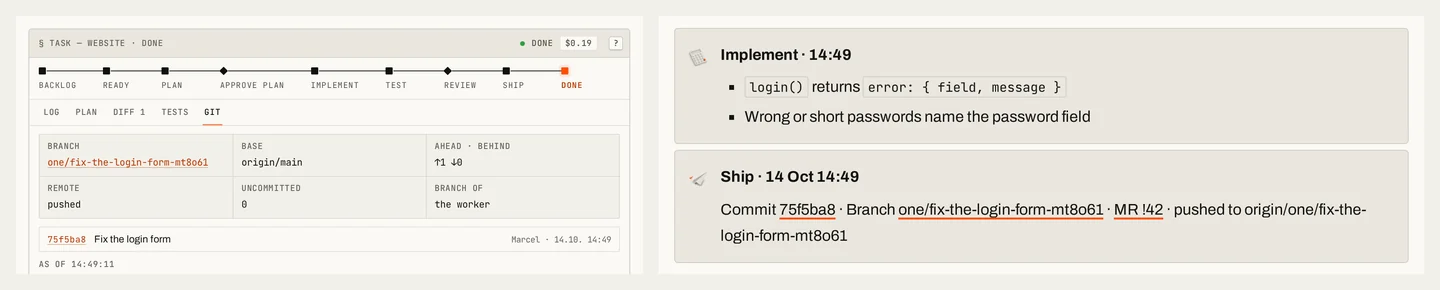
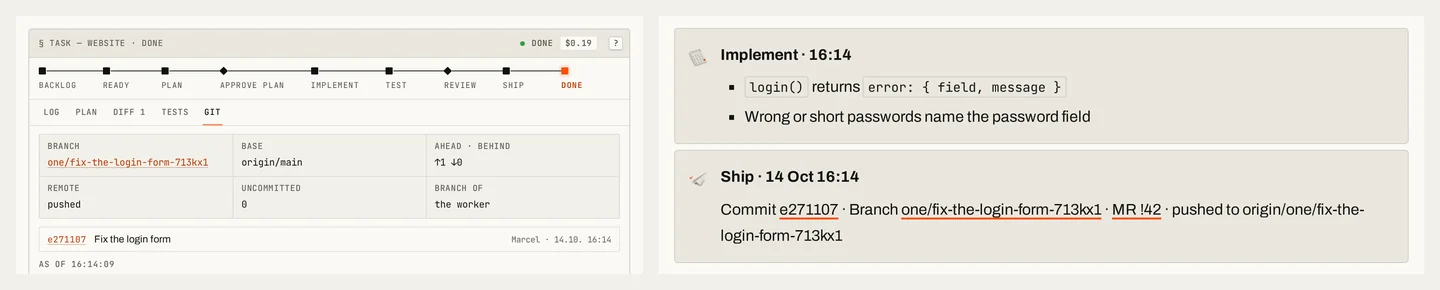
Ship log (app, worker 1.10.0): finish the app part — the line reads as a sentence, a record never falls back to the English summary
Finishes the app half of the ship log on top of the WIP commit d9a8009 (everything it lists: ship.ts, the ship
note in finishStage / gitTask inside keepTrust, PR / Commit via prFieldNext, the Git tab's links, "Always stop
here" gates, "Use for new tasks", the pipeline editor's worker warning, help, What's new, docs, specs) and the
train12 merge c684a3c. Reviewed against the spec; typechecked and tested as a whole.

Changed now:
- ship.ts shipInline: the line starts with a capital ("At a1b2c3d · Branch …", "Nothing new to commit · …",
  "Nichts Neues zu committen · …") — never inside a linked value; notes and the Git keys' toasts read as sentences.
- tasks.ts finishStage: with a ship record a git stage never writes the worker's English summary as a note; a record
  that says nothing (nothing new to commit, nothing pushed) writes no note — the log has the coded line. An older
  worker (no record) keeps its summary note as before.
- GitBox: "Open PR" pushed but the request failed — the error toast says what was shipped in the person's language,
  then gh's / glab's own words.
- Specs follow; coding-ship-fake gains "a record that says nothing: no note"; docs/CODING.md and CLAUDE.md say it.
- The What's new picture ship-log.webp taken again after the merge (scripts/changelog-shots.mjs ship-log).

Claude-Session: https://claude.ai/code/session_011PTSVwNXF7v9uoqKd4CVvx

diff --git a/tests/e2e/coding-ship-fake.spec.ts b/tests/e2e/coding-ship-fake.spec.ts
@@ -172,6 +172,24 @@ test('a failed push in German: the note "Ausliefern · <date>" records the commi
   expect((await notes(page, id)).some((n) => n.text.includes('Fixed the login form.'))).toBe(true)
 })
 
+test('a record that says nothing (nothing new to commit, nothing pushed): no note — never the worker\'s English summary', async ({ page, errors }) => {
+  errors.allow(/WebSocket connection to 'ws:\/\/127\.0\.0\.1/)
+  fake = await startFakeWorker(PORT, welcome())
+  fake.can = [...WORKER_CAN]
+  fake.auto = (task) => okOutcome(task, () => ({ status: 'ok', branch: BRANCH, summary: 'Nothing to commit.', ship: rec({ action: 'commit', commit: null, head: null, pushed: null, request: null }) }))
+  await openApp(page)
+  await page.evaluate(() => localStorage.setItem('one.coding.approvals', 'none'))
+  await connect(page)
+  const id = await newTask(page, 'Nordlicht footer')
+  await expect(page.getByTestId('coding-state')).toContainText('Done', { timeout: 30_000 })
+  const ns = await notes(page, id)
+  // the implement stage's summary is a note as ever; the git stage wrote none
+  expect(ns.some((n) => n.text.includes('Fixed the login form.'))).toBe(true)
+  expect(ns.some((n) => n.label.startsWith('Ship · '))).toBe(false)
+  expect(ns.some((n) => n.text.includes('Nothing to commit.'))).toBe(false)
+  expect(await field(page, id, 'pr')).toBe('')
+})
+
 test('PR / commit never loses a request to a commit link; hostile records are dropped; a Git key whose request failed after the push is an error and a note', async ({ page, errors }) => {
   errors.allow(/WebSocket connection to 'ws:\/\/127\.0\.0\.1/)
   fake = await startFakeWorker(PORT, welcome())
@@ -230,7 +248,7 @@ test('PR / commit never loses a request to a commit link; hostile records are dr
   const json = await pageJson(page, id)
   for (const bad of ['evil.example.com', 'user:pw', '#/p/', 'javascript:']) expect(json).not.toContain(bad)
   // the 39-character sha is no commit
-  expect(note.text).toBe(`nothing new to commit · Branch ${BRANCH} · push failed`)
+  expect(note.text).toBe(`Nothing new to commit · Branch ${BRANCH} · push failed`)
 
   // the Git tab: Push → the ship text as the toast, a note "Git (by hand)"; PR / commit keeps the request
   fake.onGit = (req) =>
@@ -241,20 +259,21 @@ test('PR / commit never loses a request to a commit link; hostile records are dr
         : new Error('not played')
   await page.getByTestId('coding-tab-git').click()
   await page.getByTestId('coding-git').getByRole('button', { name: 'Push', exact: true }).click()
-  await expect(page.locator('.toast').filter({ hasText: `at ${SHA2.slice(0, 7)} · Branch ${BRANCH} · pushed to origin/${BRANCH}` })).toBeVisible()
+  await expect(page.locator('.toast').filter({ hasText: `At ${SHA2.slice(0, 7)} · Branch ${BRANCH} · pushed to origin/${BRANCH}` })).toBeVisible()
   await expect.poll(async () => (await notes(page, id)).at(-1)?.label ?? '').toMatch(/^Git \(by hand\) · \d{1,2} [A-Z][a-z]{2} \d{2}:\d{2}$/)
   note = (await notes(page, id)).at(-1)!
-  expect(note.text).toBe(`at ${SHA2.slice(0, 7)} · Branch ${BRANCH} · pushed to origin/${BRANCH}`)
+  expect(note.text).toBe(`At ${SHA2.slice(0, 7)} · Branch ${BRANCH} · pushed to origin/${BRANCH}`)
   expect(note.links[0]).toEqual([SHA2.slice(0, 7), `${GL.base}/-/commit/${SHA2}`])
   expect(await field(page, id, 'pr')).toBe(MR)
   // Open PR: pushed, the request failed — an error toast, and the push recorded
   const count = (await notes(page, id)).length
   await page.getByTestId('coding-git').getByRole('button', { name: 'Open PR' }).click()
-  await expect(page.locator('.toast').filter({ hasText: 'gh pr create failed: GraphQL: something' })).toBeVisible()
+  // what was shipped in the person's words, then gh's own
+  await expect(page.locator('.toast').filter({ hasText: `PR could not be opened · pushed to origin/${BRANCH} — git: gh pr create failed: GraphQL: something` })).toBeVisible()
   await expect.poll(async () => (await notes(page, id)).length).toBe(count + 1)
   note = (await notes(page, id)).at(-1)!
   expect(note.label).toMatch(/^Git \(by hand\) · /)
-  expect(note.text).toBe(`at ${SHA2.slice(0, 7)} · Branch ${BRANCH} · PR could not be opened · pushed to origin/${BRANCH}`)
+  expect(note.text).toBe(`At ${SHA2.slice(0, 7)} · Branch ${BRANCH} · PR could not be opened · pushed to origin/${BRANCH}`)
   expect(await field(page, id, 'pr')).toBe(MR)
   expect(fake.gitAsked.map((g) => g.verb)).toEqual(['push', 'pr'])
 })

diff --git a/tests/e2e/coding-ship-lines.spec.ts b/tests/e2e/coding-ship-lines.spec.ts
@@ -165,11 +165,11 @@ test('each request, push and failure reads right — and a commit only on this c
   expect(say({ ...reqFailed, web: GH }, 'de')).toContain('PR konnte nicht geöffnet werden')
   expect(linksOf(reqFailed)).toEqual([`${GL.base}/-/commit/${SHA}`, `${GL.base}/-/tree/${BRANCH}`])
   // nothing new to commit, pushed: the head is named and linked
-  expect(say({ commit: null, head: SHA2 })).toBe(`nothing new to commit · at ${SHA2.slice(0, 7)} · Branch ${BRANCH} · MR !42 · pushed to origin/${BRANCH}`)
-  expect(say({ commit: null, head: SHA2 }, 'de')).toContain(`nichts Neues zu committen · Stand ${SHA2.slice(0, 7)}`)
-  // the Push key: only the head; force-push with lease
-  expect(say({ action: 'push', from: 'key', commit: null, head: SHA2, request: null })).toBe(`at ${SHA2.slice(0, 7)} · Branch ${BRANCH} · pushed to origin/${BRANCH}`)
-  expect(say({ action: 'force-push', from: 'key', commit: null, head: SHA2, request: null, pushed: { remote: 'origin', force: true } })).toBe(`at ${SHA2.slice(0, 7)} · Branch ${BRANCH} · force-pushed with lease to origin/${BRANCH}`)
+  expect(say({ commit: null, head: SHA2 })).toBe(`Nothing new to commit · at ${SHA2.slice(0, 7)} · Branch ${BRANCH} · MR !42 · pushed to origin/${BRANCH}`)
+  expect(say({ commit: null, head: SHA2 }, 'de')).toContain(`Nichts Neues zu committen · Stand ${SHA2.slice(0, 7)}`)
+  // the Push key: only the head (the line starts with a capital); force-push with lease
+  expect(say({ action: 'push', from: 'key', commit: null, head: SHA2, request: null })).toBe(`At ${SHA2.slice(0, 7)} · Branch ${BRANCH} · pushed to origin/${BRANCH}`)
+  expect(say({ action: 'force-push', from: 'key', commit: null, head: SHA2, request: null, pushed: { remote: 'origin', force: true } })).toBe(`At ${SHA2.slice(0, 7)} · Branch ${BRANCH} · force-pushed with lease to origin/${BRANCH}`)
   expect(say({ action: 'force-push', from: 'key', commit: null, head: SHA2, request: null, pushed: { remote: 'origin', force: true } }, 'de')).toContain(`mit Force (with lease) nach origin/${BRANCH} gepusht`)
   // the Commit key: its commit, not pushed — no link
   expect(say({ action: 'commit', from: 'key', head: SHA, pushed: null, request: null })).toBe(`Commit ${SHA.slice(0, 7)} · Branch ${BRANCH}`)

diff --git a/src/app/features/coding/GitBox.tsx b/src/app/features/coding/GitBox.tsx
@@ -85,9 +85,11 @@ export function GitBox({ taskId, git, branch, connected, running, title, review,
       const res = await gitTask(taskId, verb, message)
       const ship = res.ship ?? null
       const open = res.url ? { action: { label: t('features.coding.git.openLink'), run: () => window.open(res.url, '_blank', 'noopener') } } : {}
-      // 'pr' pushed but the request failed: an error (the push is in the page's note all the same)
-      if (res.error) useUI.getState().toast({ message: res.error, kind: 'error', timeout: 8000, ...open })
-      else useUI.getState().toast({ message: (ship && shipShows(ship) ? shipText(ship, t) : '') || res.message || t('features.coding.git.done'), kind: 'success', ...open })
+      const said = ship && shipShows(ship) ? shipText(ship, t) : ''
+      // 'pr' pushed but the request failed: an error — what was shipped in the person's language, then git's / gh's own
+      // words (the push is in the page's note all the same)
+      if (res.error) useUI.getState().toast({ message: said ? `${said} — ${res.error}` : res.error, kind: 'error', timeout: 8000, ...open })
+      else useUI.getState().toast({ message: said || res.message || t('features.coding.git.done'), kind: 'success', ...open })
     } catch (e) {
       useUI.getState().toast({ message: e instanceof Error ? e.message : String(e), kind: 'error', timeout: 8000 })
     } finally {

diff --git a/src/app/features/coding/tasks.ts b/src/app/features/coding/tasks.ts
@@ -458,9 +458,12 @@ export async function finishStage(taskId: ID, stageId: ID, outcome: StageOutcome
         writePlan(taskId, doc, sectionTitleOf(pipeline, stage), extra)
         wrote = true
       }
-      // the ship note (a failed push / request too: the commit before it stays recorded); an older worker's summary as before
-      if (ship && shipShows(ship)) writeShipNote(taskId, stage!.name, ship)
-      else if (outcome.status === 'ok' && outcome.summary && stage && (stage.kind === 'implement' || stage.kind === 'git'))
+      // the ship note (a failed push / request too: the commit before it stays recorded) — with a record never the
+      // worker's English summary (a record that says nothing, e.g. nothing new to commit: no note; the log has it);
+      // an older worker's summary as before
+      if (ship) {
+        if (shipShows(ship)) writeShipNote(taskId, stage!.name, ship)
+      } else if (outcome.status === 'ok' && outcome.summary && stage && (stage.kind === 'implement' || stage.kind === 'git'))
         appendNote(taskId, KIND_ICON[stage.kind] ?? 'asset:code', 'gray', `${stage.name} · ${stamp()}`, outcome.summary)
       if (moveTo) moveRow(taskId, props, moveTo.id)
     }),

diff --git a/src/app/features/coding/ship.ts b/src/app/features/coding/ship.ts
@@ -145,7 +145,11 @@ export function shipInline(s: ShipRecord, t: Tr): JSONContent[] {
   if (s.pushed) parts.push([txt(t(s.pushed.force ? 'features.coding.ship.forcePushed' : 'features.coding.ship.pushed', { remote: s.pushed.remote, branch: s.branch }))])
   else if (s.pushOff) parts.push([txt(t('features.coding.ship.pushOff'))])
   else if (s.failed?.step === 'push') parts.push([txt(t(s.failed.code === 'pushRejected' ? 'features.coding.ship.pushRejected' : 'features.coding.ship.pushFailed'))])
-  return joined(parts.flatMap((p, i) => (i ? [txt(' · '), ...p] : p)))
+  const line = joined(parts.flatMap((p, i) => (i ? [txt(' · '), ...p] : p)))
+  // the line starts with a capital ("At a1b2c3d · …", "Nothing new to commit · …") — never inside a linked value
+  const first = line[0]
+  if (first && !first.marks && first.text) line[0] = { ...first, text: first.text.charAt(0).toUpperCase() + first.text.slice(1) }
+  return line
 }
 
 /** The same line as plain text (toasts). */

diff --git a/tests/e2e/coding-ship.spec.ts b/tests/e2e/coding-ship.spec.ts
@@ -128,7 +128,7 @@ test('a task ships by itself: the note with links to GitLab, PR / commit = the m
 
   // Push (nothing new): the toast says it in words, a note "Git (by hand)", the request's address stays
   await page.getByTestId('coding-git').getByRole('button', { name: 'Push', exact: true }).click()
-  const line = `at ${sha.slice(0, 7)} · Branch ${branch} · pushed to origin/${branch}`
+  const line = `At ${sha.slice(0, 7)} · Branch ${branch} · pushed to origin/${branch}`
   await expect(page.locator('.toast').filter({ hasText: line })).toBeVisible({ timeout: 30_000 })
   await expect.poll(async () => (await notes(page, id)).at(-1)?.label ?? '').toMatch(/^Git \(by hand\) · /)
   const key = (await notes(page, id)).at(-1)!

diff --git a/CLAUDE.md b/CLAUDE.md
@@ -677,18 +677,19 @@ the public APIs stable — other areas are built against them in parallel.
   only when set (old hashes stay valid). Pickers use `MODEL_CHOICES` / `modelLabel()`.
   Ship log (worker 1.10.0, `can` 'ship'): git stages (`StageOutcome.ship`, also a failed outcome after its commit) and
   the git keys (`GitResult.ship`; `GitResult.error` = key 'pr' whose request failed after the push — it resolves, never
-  throws) return a `ShipRecord` (protocol.ts: action, from, at, branch, commit, head, pushed, pushOff, request { url, how },
-  `web` = the repo's web address — scheme + host + project path, `cleanWeb` on both sides, never credentials or a local
-  path; from a request's own address when gh / glab gave one —, failed step); One checks it again (coding/ship.ts
+  throws) return a `ShipRecord` (protocol.ts: action, from, at, branch, commit, head, pushed, pushOff, request { url,
+  how }, `web` = the repo's web address — scheme + host + project path, `cleanWeb` on both sides, never credentials or a
+  local path; from a request's own address when gh / glab gave one —, failed step); One checks it again (coding/ship.ts
   `cleanShip`) and writes ONE grey callout per record (`shipNote`, "<stage | Git (by hand)> · <date>" — links only to
-  what is on the remote) inside keepTrust: the stage run's writer in finishStage's aiWrite, `you~ui` for a key; PR /
-  Commit = `prFieldNext` (the request's address, else the pushed commit's link — never over a request link); an older
-  worker keeps the summary note. Commit messages and request bodies end with `One-Task: <task id>` (run.ts
-  `withTaskTrailer` / `requestBody`, text only — never `git interpret-trailers` / `--trailer`: `trailer.*.cmd` runs
-  commands). worker.json `forge` per repo ('auto' | 'github' | 'gitlab'; the setup page's "Host type") decides links and
-  gh / glab; GitLab finds an open MR first (`requestOf`). A rejected push logs `pushRejected`; Update from base merges
-  `<remote>/<branch>` in first; never a force in a stage. `WorkerRepo.push` / `pr` announce worker.json's flags (the
-  pipeline editor warns, `gitStageWarnings`; older workers: none).
+  what is on the remote; a record that says nothing writes none, never the English summary) inside keepTrust: the stage
+  run's writer in finishStage's aiWrite, `you~ui` for a key; PR / Commit = `prFieldNext` (the request's address, else
+  the pushed commit's link — never over a request link); an older worker keeps the summary note. Commit messages and
+  request bodies end with `One-Task: <task id>` (run.ts `withTaskTrailer` / `requestBody`, text only — never `git
+  interpret-trailers` / `--trailer`: `trailer.*.cmd` runs commands). worker.json `forge` per repo ('auto' | 'github' |
+  'gitlab'; the setup page's "Host type") decides links and gh / glab; GitLab finds an open MR first (`requestOf`). A
+  rejected push logs `pushRejected`; Update from base merges `<remote>/<branch>` in first; never a force in a stage.
+  `WorkerRepo.push` / `pr` announce worker.json's flags (the pipeline editor warns, `gitStageWarnings`; older workers:
+  none).
   Pipelines (docs/CODING.md § Pipelines): `Database.system` 'coding' | 'spec' (Business analysis) | 'qa', each its own
   board (#/coding, #/coding/spec, #/coding/qa), each usable alone; find them only with `pipelineDbId(kind)` /
   `kindOfDb()`; "Then" (`followUps` multi-select) spawns follow-ups when a task is done (`spawnFollowUp`). Stage kind

diff --git a/docs/CODING.md b/docs/CODING.md
@@ -667,7 +667,8 @@ no record.
 
 - **Where**: One checks it again (coding/ship.ts `cleanShip`: the branch, shas, the remote's name, `cleanWeb`, a request
   only on `web.base` + "/", http(s), no credentials, no fragment) and writes ONE grey callout per record that says
-  anything (`shipShows`) at the end of the task page: **"<stage> · <date time>"** (`shipWhen`: "14 Oct 14:32" ·
+  anything (`shipShows`; a record that says nothing — nothing new to commit, nothing pushed — writes none, and never
+  the stage's English summary) at the end of the task page: **"<stage> · <date time>"** (`shipWhen`: "14 Oct 14:32" ·
   "14.10. 14:32") or **"Git (by hand) · …"** for a key, then the line *Commit a1b2c3d · Branch one/… · MR !42 · pushed
   to origin/one/…* in the person's language. A stage's note sits in finishStage's `keepTrust(aiWrite(…))` under the stage
   run's writer (`coding:<task>:<run>`); a key's in gitTask's `keepTrust(…)` under `you~ui` — the task version stays
